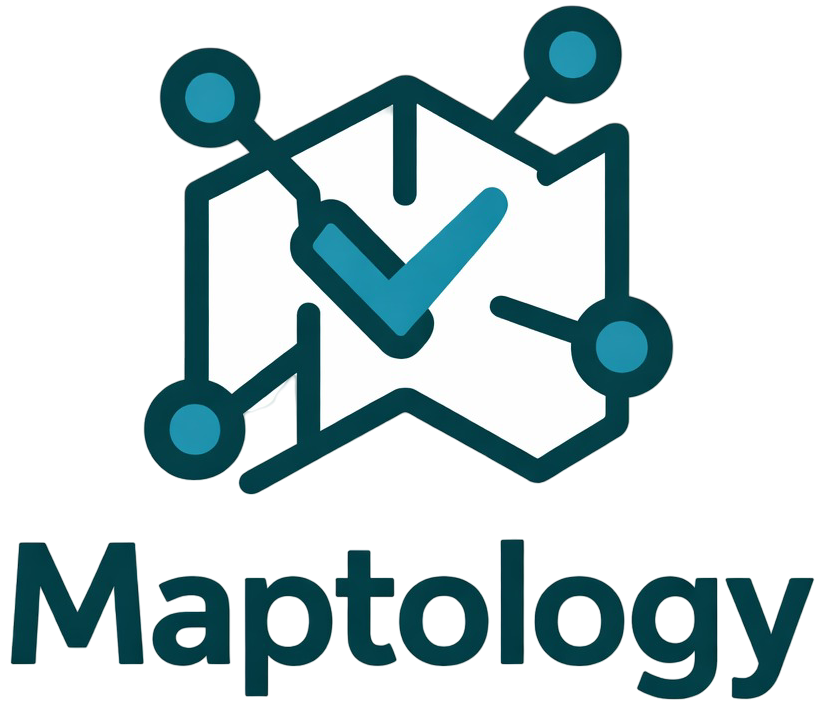
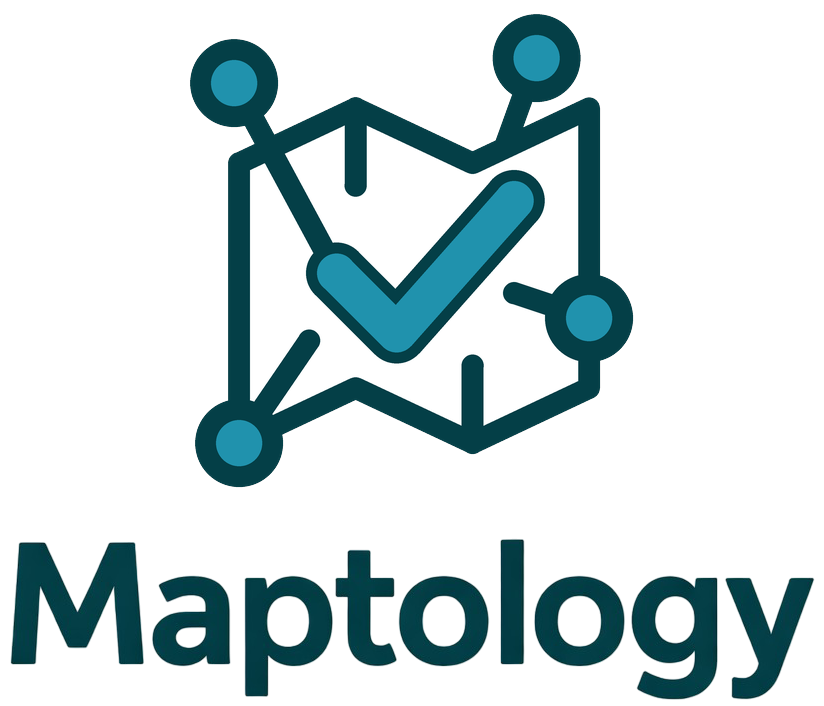
Closed #44

Changed region(s): [[0.1517, 0.0, 0.8192, 0.7167]]

diff --git a/build/make_logo.py b/build/make_logo.py
@@ -1,0 +1,123 @@
+"""Redraw the Maptology logo mark and favicon with clean geometry.
+
+The mark (folded map, network nodes, check) is drawn here from coordinates,
+so strokes are even and edges are sharp. The "Maptology" wordmark is kept
+from the existing maptology.png, below the mark.
+
+    python3 build/make_logo.py
+"""
+import os
+
+from PIL import Image, ImageDraw
+
+ROOT = os.path.dirname(os.path.dirname(os.path.abspath(__file__)))
+LOGO = os.path.join(ROOT, "maptology.png")
+FAVICON = os.path.join(ROOT, "favicon.png")
+
+DARK = (4, 63, 71, 255)
+TEAL = (32, 146, 173, 255)
+PAPER = (255, 255, 255, 255)
+
+# Mark coordinates are on a 1000 x 1000 grid.
+GRID = 1000
+SS = 4  # drawn this many times larger, then reduced, for smooth edges
+
+XS = (150, 383, 617, 850)        # left edge, two folds, right edge
+TOP = (300, 190, 300, 190)       # zigzag top edge at each x
+BOTTOM = (860, 750, 860, 750)    # zigzag bottom edge at each x
+
+STROKE = 44
+NODE_R = 88
+NODE_INNER_R = 46
+CHECK = [(345, 520), (465, 640), (700, 375)]
+CHECK_W = 78
+CHECK_OUTLINE = 22
+
+# Nodes, and the point inside or on the map each one connects to.
+NODES = [
+    ((140, 140), (345, 520)),   # top left, into the check
+    ((745, 90), (680, 270)),    # top right, onto the top edge
+    ((XS[3], 610), (700, 560)), # right edge, inward
+    ((XS[0], BOTTOM[0]), (290, 655)),  # bottom left corner, inward
+]
+
+# Short fold creases, one from the top and one from the bottom.
+FOLDS = [
+    ((XS[1], TOP[1]), (XS[1], 345)),
+    ((XS[2], BOTTOM[2]), (XS[2], 705)),
+]
+
+
+def _round_line(draw, points, width, fill, s):
+    pts = [(x * s, y * s) for x, y in points]
+    draw.line(pts, fill=fill, width=int(width * s), joint="curve")
+    r = width * s / 2
+    for x, y in (pts[0], pts[-1]):
+        draw.ellipse((x - r, y - r, x + r, y + r), fill=fill)
+
+
+def _circle(draw, center, r, fill, s):
+    x, y = center[0] * s, center[1] * s
+    draw.ellipse((x - r * s, y - r * s, x + r * s, y + r * s), fill=fill)
+
+
+def draw_mark(size, stroke_scale=1.0, folds=True):
+    """The mark alone on a transparent square, `size` pixels across.
+
+    The fold creases can be left out for small sizes, where they only blur
+    into the check.
+    """
+    s = size * SS / GRID
+    img = Image.new("RGBA", (size * SS, size * SS), (0, 0, 0, 0))
+    d = ImageDraw.Draw(img)
+    w = STROKE * stroke_scale
+
+    outline = ([(x, t) for x, t in zip(XS, TOP)]
+               + [(x, b) for x, b in reversed(list(zip(XS, BOTTOM)))])
+    d.polygon([(x * s, y * s) for x, y in outline], fill=PAPER)
+
+    for node, target in NODES:
+        _round_line(d, [node, target], w, DARK, s)
+    for a, b in (FOLDS if folds else []):
+        _round_line(d, [a, b], w, DARK, s)
+    _round_line(d, outline + [outline[0]], w, DARK, s)
+
+    _round_line(d, CHECK, CHECK_W + 2 * CHECK_OUTLINE * stroke_scale, DARK, s)
+    _round_line(d, CHECK, CHECK_W, TEAL, s)
+
+    for node, _ in NODES:
+        _circle(d, node, NODE_R * (1 + 0.15 * (stroke_scale - 1)), DARK, s)
+        _circle(d, node, NODE_INNER_R, TEAL, s)
+
+    return img.resize((size, size), Image.LANCZOS)
+
+
+def build_logo():
+    old = Image.open(LOGO).convert("RGBA")
+    w, h = old.size
+    word_top = 500  # the wordmark starts below this row in the original
+    word = old.crop((0, word_top, w, h))
+
+    mark_size = 500
+    mark = draw_mark(mark_size)
+    bbox = mark.getbbox()
+    mark = mark.crop(bbox)
+    out = Image.new("RGBA", (w, h), (0, 0, 0, 0))
+    out.paste(mark, ((w - mark.width) // 2, max(0, word_top - 10 - mark.height)), mark)
+    out.alpha_composite(word, (0, word_top))
+    out.save(LOGO)
+
+
+def build_favicon(size=256):
+    # Heavier strokes so the mark still reads at 16 and 32 pixels.
+    mark = draw_mark(size * 2, stroke_scale=1.35, folds=False)
+    mark = mark.crop(mark.getbbox())
+    side = int(max(mark.size) * 1.06)
+    canvas = Image.new("RGBA", (side, side), PAPER)
+    canvas.alpha_composite(mark, ((side - mark.width) // 2, (side - mark.height) // 2))
+    canvas.resize((size, size), Image.LANCZOS).convert("RGB").save(FAVICON)
+
+
+if __name__ == "__main__":
+    build_logo()
+    build_favicon()

diff --git a/src/Maptology/main.py b/src/Maptology/main.py
@@ -2,7 +2,7 @@ import streamlit as st
 import pandas as pd
 
 from utils import initialize_session, add_css
-from components import render_header
+from components import render_header, FAVICON_PATH
 from ontology_setup import ensure_ontologies
 from ontology import render_ontology_selection, get_available_ontologies, search_ontology
 from column_mapping import render_column_mapping_section
@@ -11,7 +11,7 @@ from mapping_display import render_mapped_terms, render_value_mappings, render_d
 from mapping_import import render_import_section
 
 # Streamlit basic page configuration
-st.set_page_config(page_title='Maptology', layout='wide')
+st.set_page_config(page_title='Maptology', page_icon=FAVICON_PATH, layout='wide')
 
 # Download and index any ontologies that are new or updated on BioPortal, before
 # the UI renders. Cached per server process, so this is startup work rather than

diff --git a/src/Maptology/components.py b/src/Maptology/components.py
@@ -7,6 +7,9 @@ import urllib.parse
 # the app is launched from.
 _REPO_ROOT = os.path.dirname(os.path.dirname(os.path.dirname(os.path.abspath(__file__))))
 _LOGO_PATH = os.path.join(_REPO_ROOT, "maptology.png")
+# The logo's map mark without the wordmark, with heavier lines so it still
+# reads at browser-tab size.
+FAVICON_PATH = os.path.join(_REPO_ROOT, "favicon.png")
 
 
 # 로고와 제목을 컬럼으로 표시 / Display logo and title in columns
